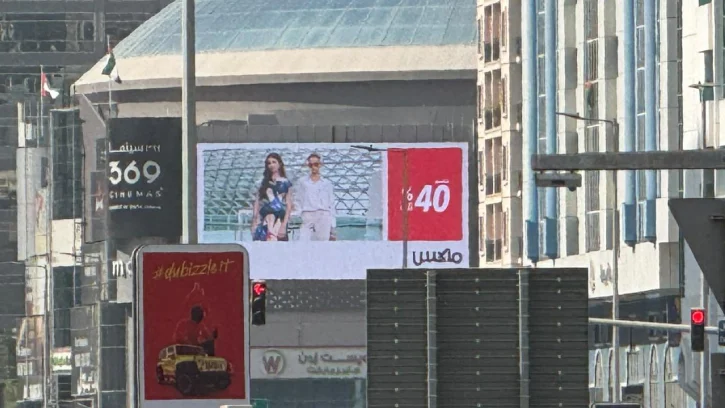
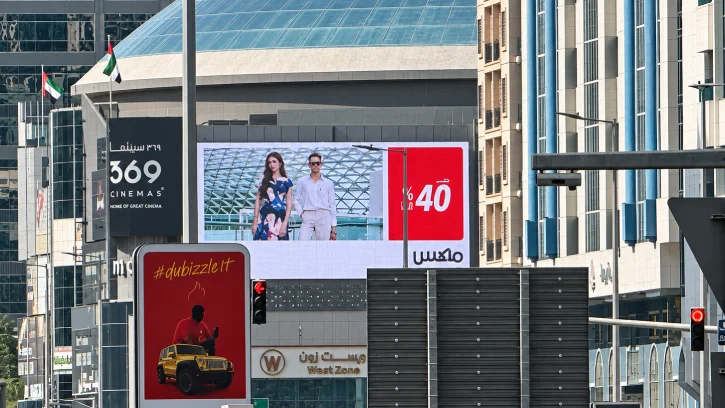
Add Max Fashion and update max image

diff --git a/src/app/portfolio/page.jsx b/src/app/portfolio/page.jsx
@@ -31,6 +31,13 @@ const portfolioData = [
     category: 'event_managment, pr_publication',
   },
   {
+    title: 'MAX Fashion – Integrated Brand Activation',
+    subtitle: 'See Details',
+    href: '/portfolio/max-fashion',
+    src: '/images/projects/max/max.webp',
+    category: 'event_managment, pr_publication, digital_marketing, media_buying',
+  },
+  {
     title: 'Laufen at Dubai Design',
     subtitle: 'See Details',
     href: '/portfolio/laufen-at-dubai-design',
